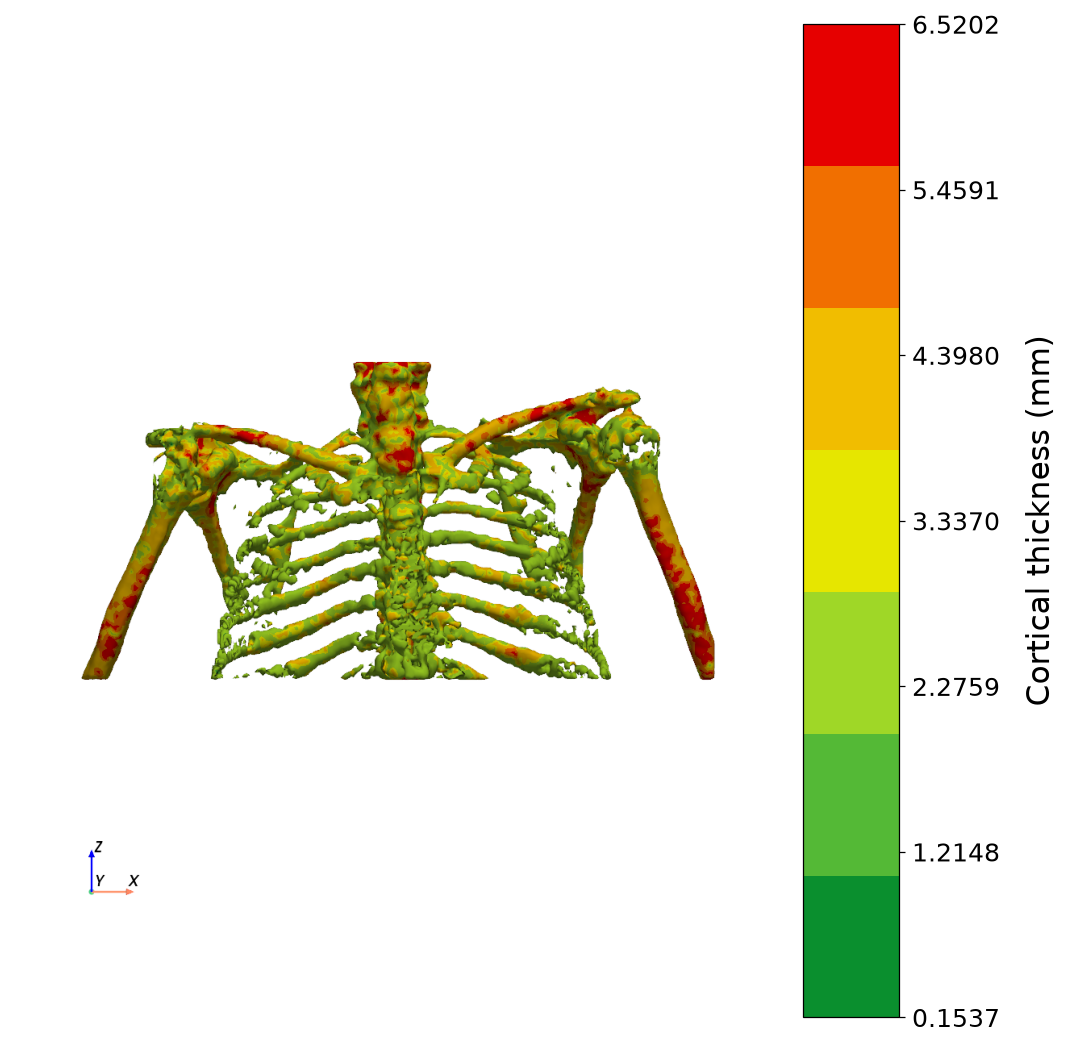
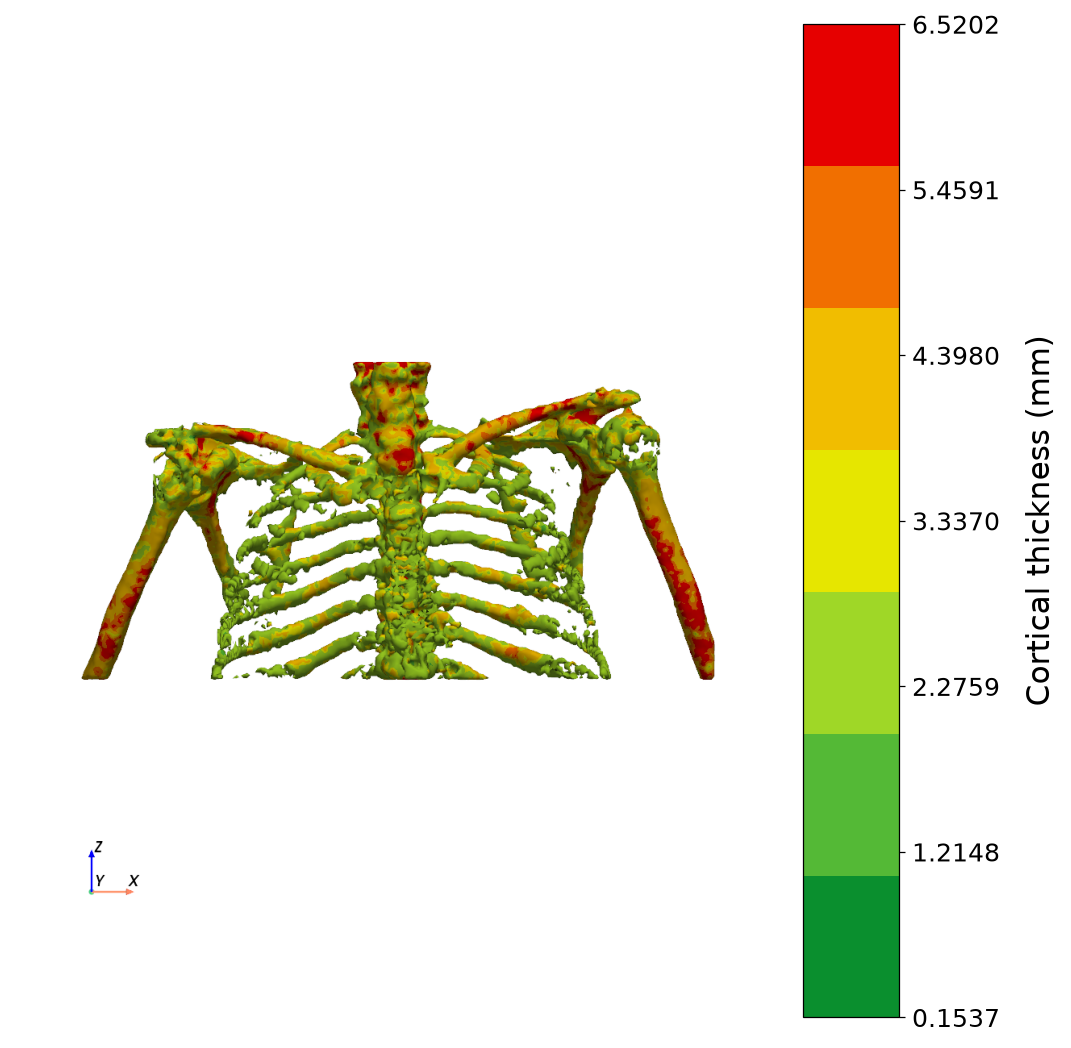
Meshing: bound reconstruct so it can't hang/OOM at native resolution
"Failed to fetch" on recompute at a native-resolution budget was reconstruct_surface
running windowed-sinc + pyacvd ACVD clustering on the full multi-million-vertex
marching-cubes shell — minutes / OOM → the worker dropped the request. Pre-decimate
the input to ~6× the target vertices (ACVD only needs a few× to seed clusters) before
the pipeline, keeping the full-res surface only as the final scalar source. Verified:
reconstruct on a 359k-vert mesh now takes ~9 s (was minutes) with the thickness scalar
preserved (558 distinct values). Regenerate the README demo image at a moderate 12M
budget where analyze+wrap completes in ~31 s and the surface is clean.

diff --git a/core/meshing/surface.py b/core/meshing/surface.py
@@ -208,7 +208,7 @@ def reconstruct_surface(
     if mesh is None or mesh.n_points == 0:
         return mesh if mesh is not None else pv.PolyData()
 
-    src = mesh  # keep the pre-reconstruction surface as the scalar source of truth
+    src = mesh  # ORIGINAL full-res surface — scalar source of truth for the final resample
 
     # hole size scaled to the model so fill_holes closes real gaps, not the shell.
     try:
@@ -217,8 +217,25 @@ def reconstruct_surface(
         diag = 0.0
     hole_size = max(diag * 0.05, 1.0)
 
+    # Bound cost regardless of input resolution. A NATIVE-spacing marching-cubes shell
+    # can be MILLIONS of verts, and windowed-sinc + ACVD clustering on that is
+    # minutes / OOM — which drops the recompute ("Failed to fetch"). Pre-decimate to a
+    # few× the target so ACVD still has enough seed points but every step stays fast;
+    # the FINAL scalar resample below still reads from the full-res ``src`` for accuracy.
+    base = src
+    _cap = max(int(target_verts) * 6, 200_000)
+    if base.n_points > _cap:
+        try:
+            frac = 1.0 - (float(_cap) / float(base.n_points))
+            dec = base.triangulate().decimate_pro(float(frac), preserve_topology=True)
+            if dec is not None and dec.n_points:
+                _resample_point_scalars(base, dec)
+                base = dec
+        except Exception:  # noqa: BLE001
+            pass
+
     # 1) watertight repair
-    work = _make_watertight(src, hole_size)
+    work = _make_watertight(base, hole_size)
 
     # 2) windowed-sinc smoothing (shape-preserving; kills residual staircase)
     try: